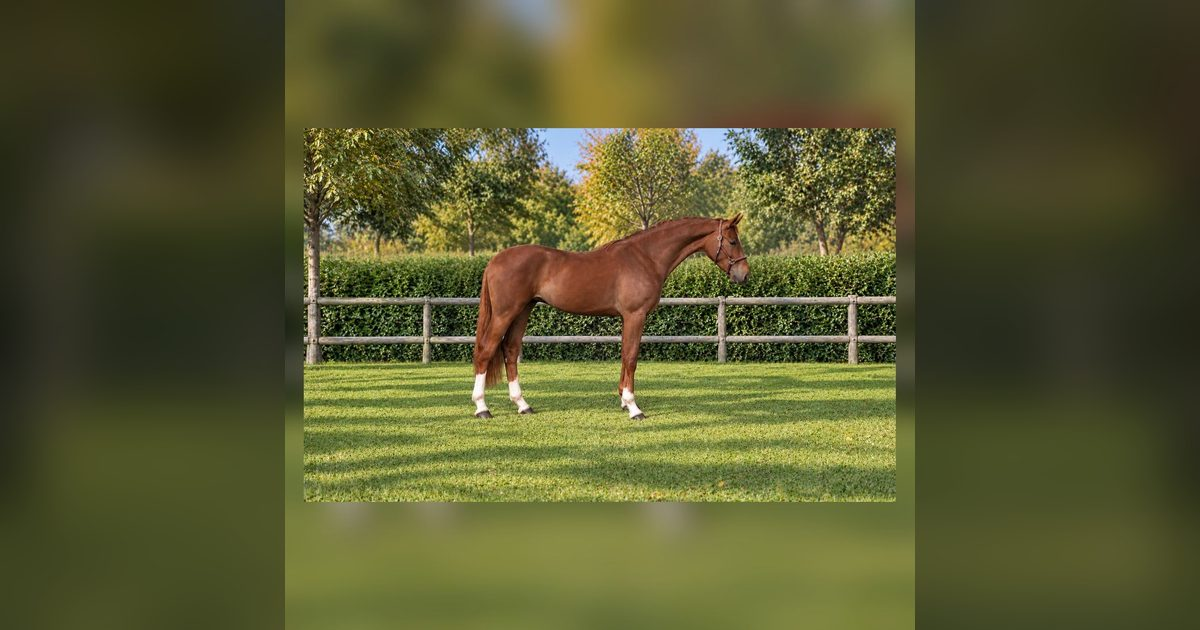
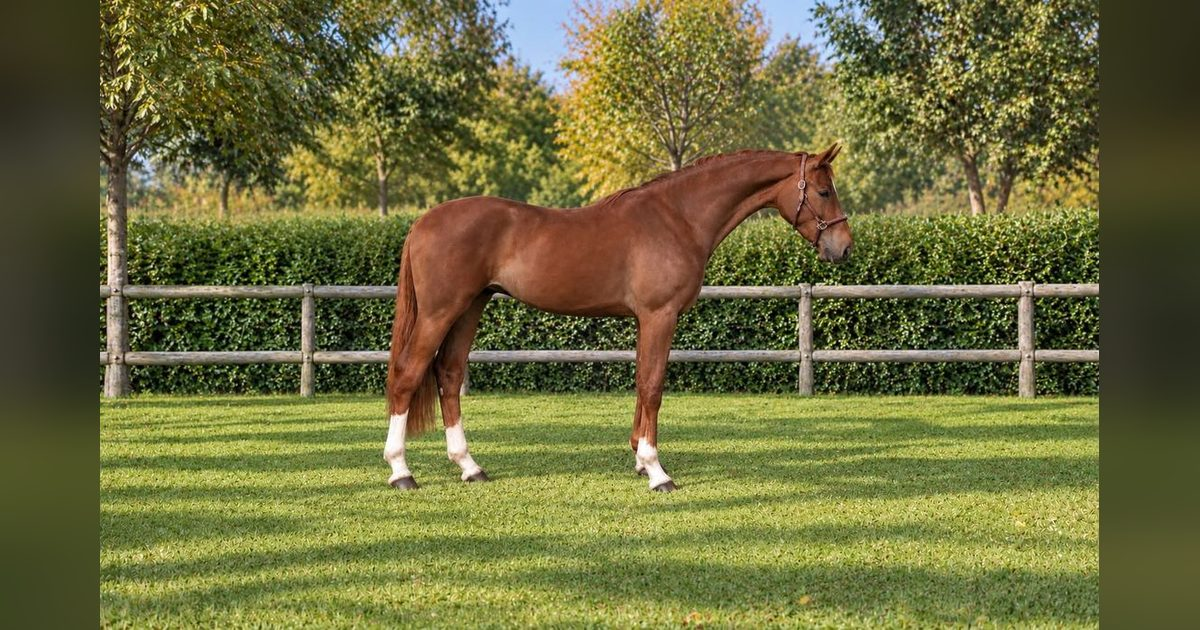
The composed squares come out again
Mark looked at Diamecho on the archive: the cards are to stay covered, not sit
contained in a soft background. So the last composed square goes, and SQUARE
is empty.

It turns out not to cost anything. I judged his new frame from a crop taken
at thirty per cent down, where the muzzle sits tight against the edge; the
card actually crops from the centre, and at 360 by 360 the whole horse is
there with room to spare. The wider frame he sent did the work on its own.

Every card on the site is now a photograph as it was taken.

diff --git a/scripts/place-whatsapp-photos.py b/scripts/place-whatsapp-photos.py
@@ -75,12 +75,14 @@ SUPPLIED = {
 # with the space around him filled from the same photograph, enlarged and
 # blurred. Nothing is invented and nothing of the horse is lost. Mark named
 # these four on 7 September.
-# Empty, and that is the good outcome. Four horses were listed here on
-# 7 September because the square card cut them; Mark then found a wider frame
-# of each, and a real photograph beats a composed one every time. Diamecho is
-# the one exception and he is handled below. The machinery stays: the next
-# horse whose card cuts him goes in here and needs nothing else.
-SQUARE = {'diamecho-von-axe-z'}
+# Empty, and that is the outcome Mark wanted. Four horses were listed here on
+# 7 September because the square card cut them, and each got a composed
+# square: the whole horse on a blurred ground of its own. He looked at
+# Diamecho on the archive and said no, the cards are to stay covered rather
+# than sit contained in a soft background, so the last one came out too. By
+# then he had found a wider frame of every one of them anyway.
+# The machinery stays for a case where there is no better frame to be had.
+SQUARE = set()
 
 
 def to_square(im, margin=0.03):
